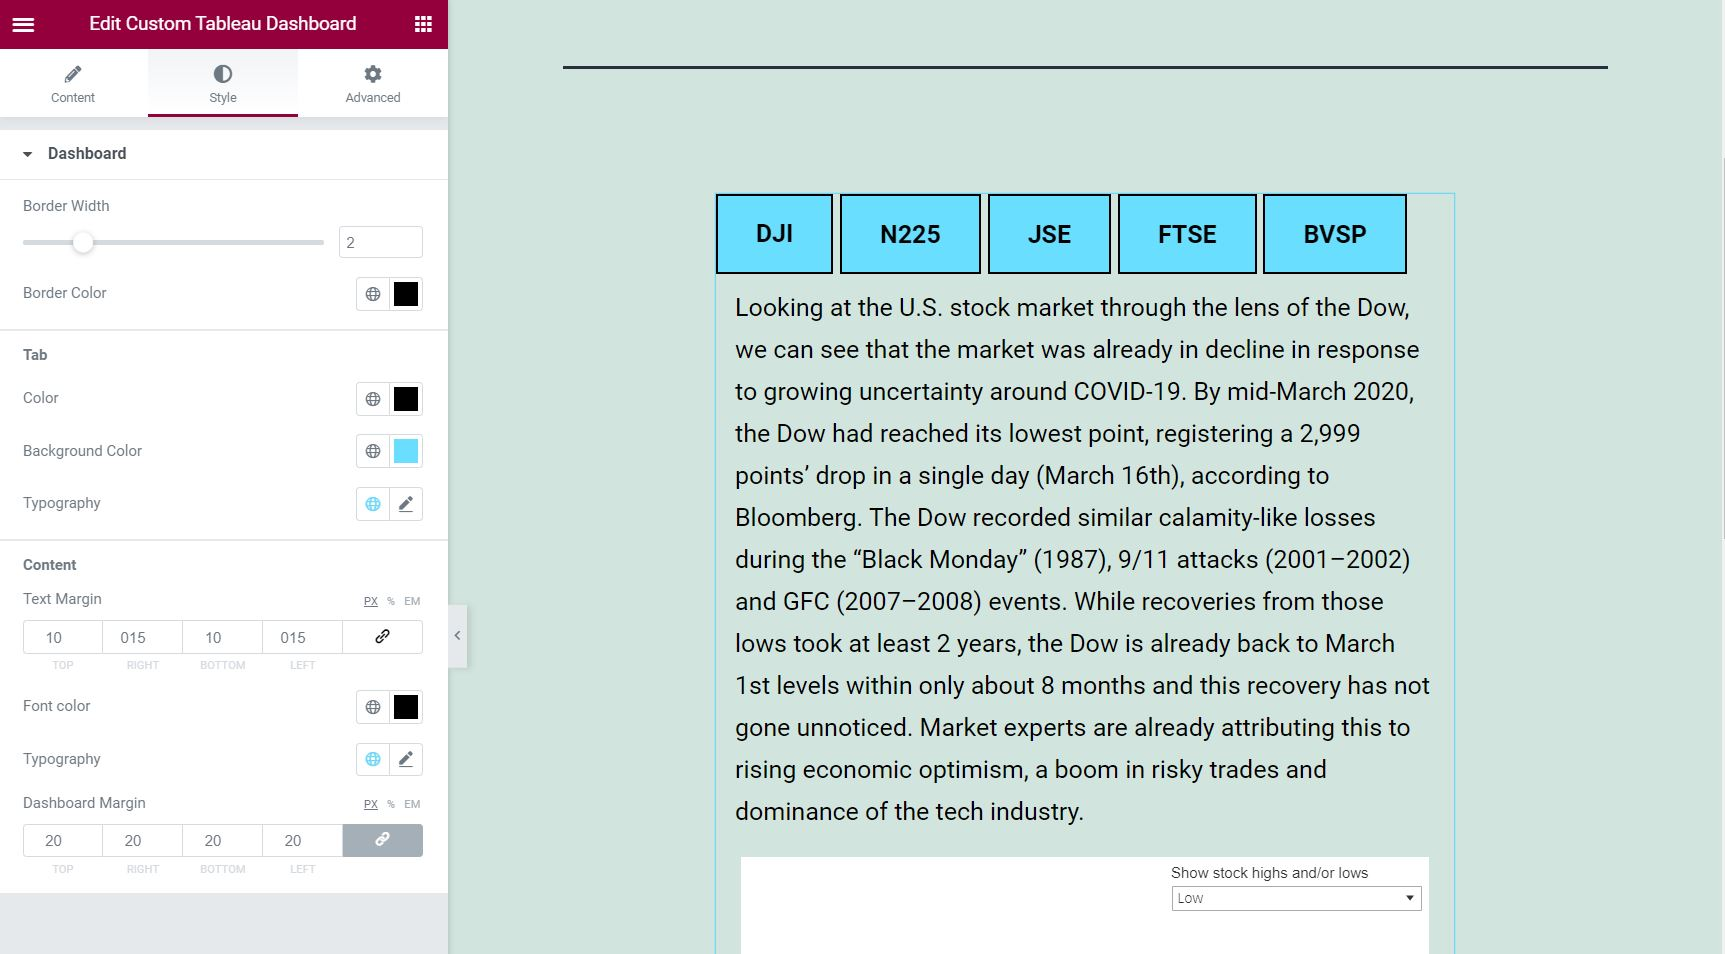
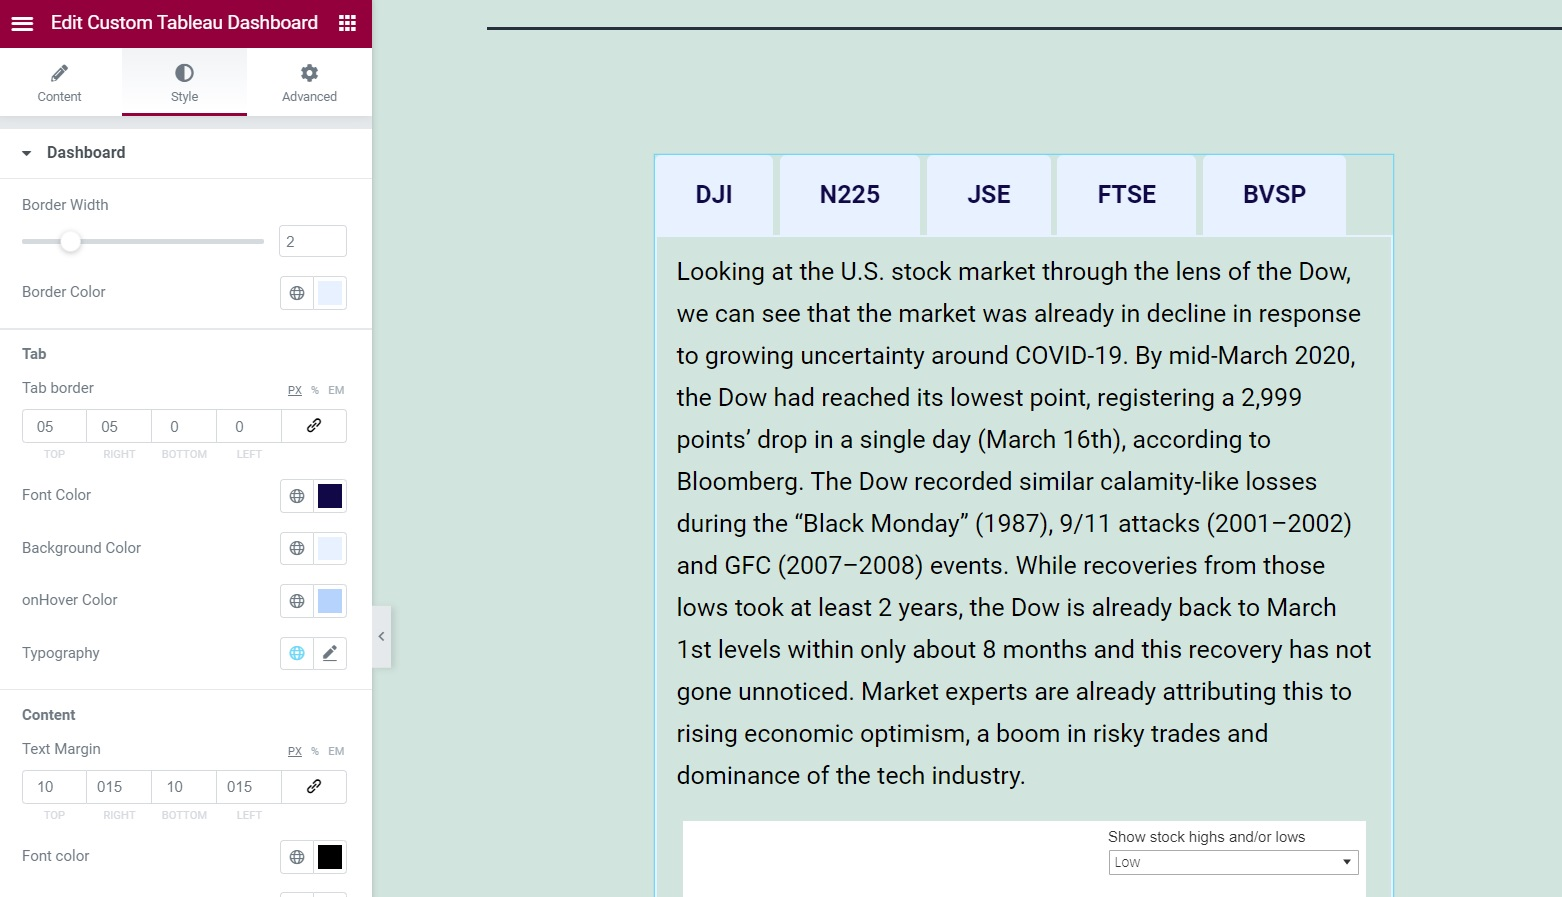
update v1.0.3
New update:
1. Added config options for border-radius and hover background-color

Bug fixes:
Issue #1 border display fix with css

diff --git a/TebleauDashboard/css/dWidget.css b/TebleauDashboard/css/dWidget.css
@@ -1,15 +1,20 @@
 @charset "UTF-8";
 
-/* Style the tab */
-.custom-tabs-wrapper {
+/* Style the tab 
   position: -webkit-sticky;
   position: sticky;
+  add in custom CSS if needed
+*/
+.custom-tabs {
   overflow: auto;
   white-space: nowrap;
   top: 0;
 }
 
-.tabcontent {
-  border: 1px!important;
-  border-color: black!important;
+.custom-tab-title {
+  transition: 0.3s;
+}
+
+.custom-tab-content {
+  border-style: solid;
 }

diff --git a/TebleauDashboard/widget.php b/TebleauDashboard/widget.php
@@ -2,7 +2,7 @@
 /**
  * Plugin Name: Elementor Tableau Dashboard Widget
  * Description: Custom Elementor Widget to display tableau dashboard dynamically.
- * Version:     1.0.2
+ * Version:     1.0.3
  * Author:      Ming Sheng Choo
  * Author URI:  https://github.com/MingSheng92
  * package URI: https://github.com/MingSheng92/Elementor-Tableau-Widget
@@ -196,9 +196,21 @@ class Dashboard_Widget extends Widget_Base {
 		);
 
 		$this->add_control(
+			'Tab_border',
+			[
+				'label' => __( 'Tab border', 'plugin-domain' ),
+				'type' => \Elementor\Controls_Manager::DIMENSIONS,
+				'size_units' => [ 'px', '%', 'em' ],
+				'selectors' => [
+					'{{WRAPPER}} .custom-tab-title' => 'border-radius: {{TOP}}{{UNIT}} {{RIGHT}}{{UNIT}} {{BOTTOM}}{{UNIT}} {{LEFT}}{{UNIT}};',
+				],
+			]
+		);
+
+		$this->add_control(
 			'tab_color',
 			[
-				'label' => __( 'Color', 'elementor' ),
+				'label' => __( 'Font Color', 'elementor' ),
 				'type' => \Elementor\Controls_Manager::COLOR,
 				'selectors' => [
 					'{{WRAPPER}} .custom-tab-title' => 'color: {{VALUE}};',
@@ -221,7 +233,18 @@ class Dashboard_Widget extends Widget_Base {
 			]
 		);
 
-		/* WIP, bug - border not showing
+		$this->add_control(
+			'hover_color',
+			[
+				'label' => __( 'onHover Color', 'elementor' ),
+				'type' => \Elementor\Controls_Manager::COLOR,
+				'selectors' => [
+					'{{WRAPPER}} .custom-tab-title:hover' => 'background-color: {{VALUE}};',
+				],
+			]
+		);
+
+		/* WIP
 		$this->add_control(
 			'tab_active_color',
 			[
@@ -322,7 +345,7 @@ class Dashboard_Widget extends Widget_Base {
 		$id_int = substr( $this->get_id_int(), 0, 3 );
 		?>
 		<div class="custom-tabs" role="tablist">
-			<div class="custom-tabs-wrapper">
+			<!--<div class="custom-tabs-wrapper">-->
 				<?php foreach ($tabs as $index => $item) :
 					$tab_count = $index + 1;
 					$tab_title_setting_key = $this->get_repeater_setting_key('tab_title', 'tabs', $index);
@@ -352,7 +375,7 @@ class Dashboard_Widget extends Widget_Base {
 						<?php echo $item['tab_title'] ?>
 					</button>
 				<?php endforeach ?>
-			</div>
+			<!--</div>-->
 		</div>
 
 		<?php 
@@ -416,7 +439,7 @@ class Dashboard_Widget extends Widget_Base {
 			if (settings.tabs) {
 				var tabindex = view.getIDInt().toString().substr( 0, 3 );
 				#>
-				<div class="custom-tabs-wrapper">
+				<!--<div class="custom-tabs-wrapper">-->
 					<#
 					_.each(settings.tabs, function (item, index) {
 						var tabCount = index + 1;
@@ -447,7 +470,7 @@ class Dashboard_Widget extends Widget_Base {
 							{{ item.tab_title }}
 						</button>
 					<# }}); #>
-				</div>	
+				<!--</div>-->	
 			<# } #>
 		</div>
 

diff --git a/TebleauDashboard/elementor-dashboard.php b/TebleauDashboard/elementor-dashboard.php
@@ -2,7 +2,7 @@
 /**
  * Plugin Name: Elementor Tableau Dashboard Widget
  * Description: Custom Elementor Widget to display tableau dashboard dynamically.
- * Version:     1.0.2
+ * Version:     1.0.3
  * Author:      Ming Sheng Choo
  * Author URI:  https://github.com/MingSheng92
  * package URI: https://github.com/MingSheng92/Elementor-Tableau-Widget
